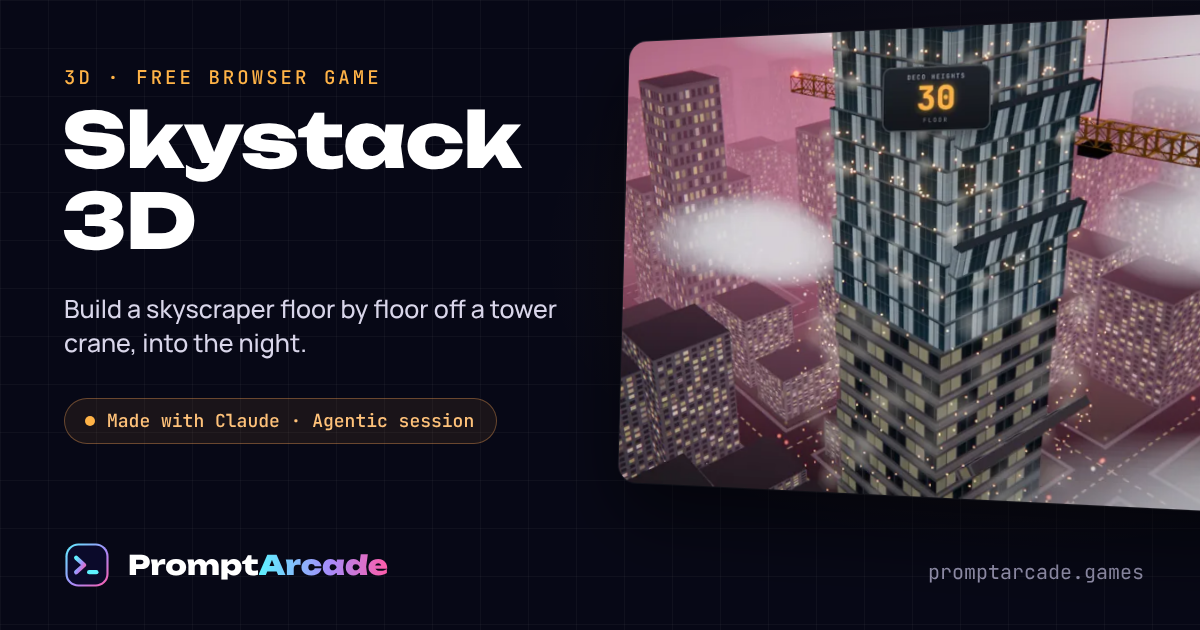
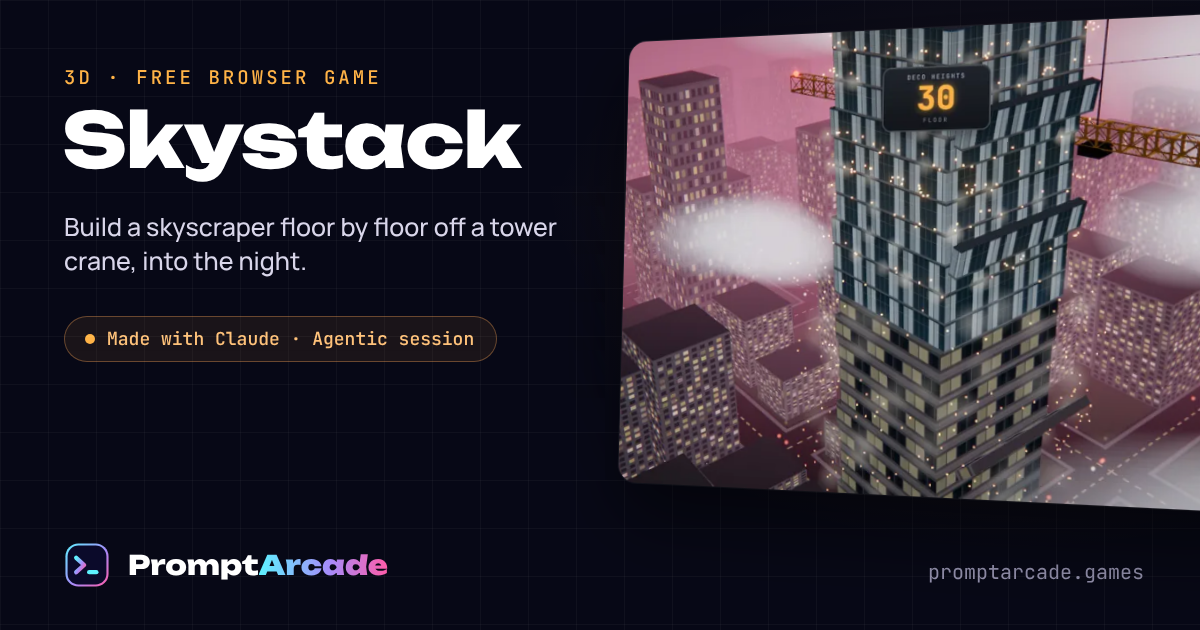
Skystack: clear opening view of the podium, drop "3D" from the name (#20)
- Early floors are framed from higher up (elevation eases from 0.62 to the usual 0.42 over the first
  ten floors) and aim slightly above the podium so it and the hanging floor sit clear of the score panel
- City buildings between the camera and the tower are capped below the sight line to the podium,
  so no neighbour's roof can fill the screen at the start
- Clouds sitting across the line of sight to the top of the tower thin out
- Title is now "Skystack" on the home page, play page, page title, quest/badge text and share card;
  slug /games/skystack/ unchanged

Changed region(s): [[0.0308, 0.3016, 0.4625, 0.4524], [0.0308, 0.4825, 0.4625, 0.573], [0.0617, 0.6635, 0.4008, 0.6937]]

diff --git a/src/play/skystack.html b/src/play/skystack.html
@@ -1,7 +1,7 @@
 <!DOCTYPE html>
 <html lang="en"><head><meta charset="utf-8"/>
 <meta name="viewport" content="width=device-width, initial-scale=1, maximum-scale=1, user-scalable=no"/>
-<title>Skystack 3D — PromptArcade</title>
+<title>Skystack — PromptArcade</title>
 <style>
 html,body{margin:0;height:100%;overflow:hidden;background:#5aa9e6;font-family:Manrope,system-ui,sans-serif;touch-action:none;-webkit-user-select:none;user-select:none}
 #game{position:fixed;inset:0}
@@ -14,12 +14,12 @@ html,body{margin:0;height:100%;overflow:hidden;background:#5aa9e6;font-family:Ma
 #sk-combo{position:fixed;top:168px;left:0;right:0;text-align:center;z-index:30;pointer-events:none;font:800 15px 'JetBrains Mono',monospace;letter-spacing:.16em;color:#fff;text-shadow:0 2px 10px rgba(0,0,0,.45);opacity:0;transition:opacity .3s}
 #sk-hint{position:fixed;bottom:40px;left:0;right:0;text-align:center;z-index:30;pointer-events:none;font:700 14px Manrope,sans-serif;color:#fff;text-shadow:0 1px 6px rgba(0,0,0,.5);transition:opacity .5s}
 </style></head><body>
-<div id="game" aria-label="Skystack 3D: a skyscraper rising over a city"></div>
+<div id="game" aria-label="Skystack: a skyscraper rising over a city"></div>
 <div id="sk-panel"><small id="sk-dist">Brick row</small><b id="sk-score">0</b><span>FLOOR</span></div>
 <div id="sk-combo"></div><div id="sk-hint">Tap, click or press Space to lower the floor</div>
 <script>
 window.paConfig = {
-  slug: "skystack", title: "Skystack 3D", native: true, music: "lofi", unit: "floors",
+  slug: "skystack", title: "Skystack", native: true, music: "lofi", unit: "floors",
   controls: [["Space / click / tap", "Lower the floor off the crane"], ["Flush drops", "Three in a row brace the tower: no sway for four floors"], ["Hot streak", "From the third flush in a row, each flush floor grows back a little"], ["Sky lobby", "Every tenth floor the next one comes wider"], ["Wind", "From floor 5 the tower sways: drop where the top is, not where it was"]]
 };
 </script>
@@ -300,6 +300,21 @@ const wallTex = canvasTex(128, 256, (g, w, h) => {
 const cityWall = new THREE.MeshStandardMaterial({ color: 0xffffff, map: wallTex, emissive: 0xffffff, emissiveMap: winTex, emissiveIntensity: 0, roughness: .8, metalness: .1 });
 const cityRoof = new THREE.MeshStandardMaterial({ color: 0x5b6168, roughness: .9 });
 const blocks = [];
+// keep the view onto the podium clear: anything between the camera and the tower stays below the
+// sight line from the camera to the upper podium, so no neighbour's roof hides where the first floors land
+const CAM_AZ = Math.PI / 4, EL_LOW = .42, EL_START = .62;
+function clearH(x, z, w, d) {
+  const hd = Math.hypot(w, d) / 2;
+  let cap = Infinity;
+  for (const az of [CAM_AZ - .2, CAM_AZ, CAM_AZ + .2]) {
+    const ux = Math.sin(az), uz = Math.cos(az);
+    const t = x * ux + z * uz, lat = Math.abs(x * uz - z * ux);
+    if (t <= 0 || lat > START / 2 + hd + 2) continue;
+    // the sight line rises from the podium (aimed a few floors below its top) at the shallowest camera angle
+    cap = Math.min(cap, (-3 + Math.max(0, t - hd) * Math.tan(EL_LOW) - .6) - GY);
+  }
+  return Math.max(1.2, cap);
+}
 for (let gx = -6; gx <= 6; gx++) for (let gz = -6; gz <= 6; gz++) {
   if (Math.abs(gx) <= 0 && Math.abs(gz) <= 0) continue;
   const cx = gx * 20, cz = gz * 20, r = Math.hypot(cx, cz);
@@ -307,8 +322,10 @@ for (let gx = -6; gx <= 6; gx++) for (let gz = -6; gz <= 6; gz++) {
   // two to four buildings to a block, taller further out so the tower always reads as the star
   const n = 2 + ((Math.random() * 3) | 0), slots = [[-4, -4], [4, -4], [-4, 4], [4, 4]].sort(() => Math.random() - .5);
   for (let k = 0; k < n; k++) {
-    const w = 5 + Math.random() * 2.5, d = 5 + Math.random() * 2.5, h = 2 + Math.random() * (r < 30 ? 5 : r < 60 ? 10 : 18) + (Math.random() < .08 ? 14 : 0);
-    blocks.push([cx + slots[k][0], cz + slots[k][1], w, d, h]);
+    const w = 5 + Math.random() * 2.5, d = 5 + Math.random() * 2.5, bx = cx + slots[k][0], bz = cz + slots[k][1];
+    let h = 2 + Math.random() * (r < 30 ? 5 : r < 60 ? 10 : 18) + (Math.random() < .08 ? 14 : 0);
+    h = Math.min(h, clearH(bx, bz, w, d));
+    blocks.push([bx, bz, w, d, h]);
   }
 }
 const city = new THREE.InstancedMesh(geo, [cityWall, cityWall, cityRoof, cityRoof, cityWall, cityWall], blocks.length);
@@ -783,7 +800,12 @@ function frame(now) {
   for (const c of clouds) {
     c.position.x += c.userData.v * dt; if (c.position.x > 40) c.position.x = -40;
     const dc = c.position.distanceTo(cam.position);
-    c.material.opacity = .55 * Math.min(1, Math.max(0, (dc - 10) / 14));
+    // a cloud sitting right across the line of sight to the top of the tower thins out, so it never hides where the floor lands
+    const ax = -cam.position.x, ay = camY + .5 - cam.position.y, az2 = -cam.position.z, aa = ax * ax + ay * ay + az2 * az2;
+    const px = c.position.x - cam.position.x, py = c.position.y - cam.position.y, pz = c.position.z - cam.position.z;
+    const u = Math.min(1, Math.max(0, (px * ax + py * ay + pz * az2) / aa));
+    const off = Math.hypot(px - ax * u, py - ay * u, pz - az2 * u), clr = Math.min(1, Math.max(.08, (off - 3) / (c.scale.x * .45)));
+    c.material.opacity = .55 * Math.min(1, Math.max(0, (dc - 10) / 14)) * (u < 1 ? clr : 1);
     c.material.color.setRGB(ck, ck * 1.02, ck * 1.1 + night * .1);
   }
   // camera rises with the tower and drifts gently round it; pulls back at the end to show the whole thing
@@ -791,11 +813,17 @@ function frame(now) {
   camY += (targetY - camY) * Math.min(1, dt * 3);
   const D = over ? Math.max(camD, stack.length * H * 1.9 + 14) : camD;
   cam.userData.d = (cam.userData.d || D) + (D - (cam.userData.d || D)) * Math.min(1, dt * 2);
-  const az = Math.PI / 4 + Math.sin(clock * .07) * .12, el = .42, dd = cam.userData.d;
+  // the first floors are seen from higher up, looking down onto the podium so the landing spot is
+  // easy to read; the view eases down to the usual angle as the tower climbs past ten floors
+  const elT = over ? EL_LOW : EL_LOW + (EL_START - EL_LOW) * Math.max(0, 1 - score / 10);
+  cam.userData.el = cam.userData.el == null ? elT : cam.userData.el + (elT - cam.userData.el) * Math.min(1, dt * 2);
+  const az = CAM_AZ + Math.sin(clock * .07) * .12, el = cam.userData.el, dd = cam.userData.d;
   cam.position.set(Math.sin(az) * dd * Math.cos(el), camY + dd * Math.sin(el), Math.cos(az) * dd * Math.cos(el));
   kick *= Math.exp(-dt * 9);
   cam.position.y -= kick * Math.sin(clock * 40) * .5;
-  cam.lookAt(0, camY, 0);
+  // early on, aim a touch above the podium so it and the hanging floor sit clear of the score panel
+  const lift = over ? 0 : 1.2 * Math.max(0, 1 - score / 10);
+  cam.lookAt(0, camY + lift, 0);
   sky.position.copy(cam.position);
   sun.position.set(10, 30 + camY, 6); sun.target.position.set(0, camY, 0);
   post.render(scene, cam, clock);

diff --git a/src/play/pa-kit.js b/src/play/pa-kit.js
@@ -1149,7 +1149,7 @@
       "grid-100k": ["Storm Chaser", "Score 100,000 in Gridstorm", "⚡"],
       "delve-5": ["Dragonslayer", "Reach depth 6 in Deepdelve", "🐉"],
       "delve-10": ["Into the Abyss", "Reach depth 10 in Deepdelve", "🕳"],
-      "stack-30": ["Skyline", "Stack 30 floors in Skystack 3D", "🏙"]
+      "stack-30": ["Skyline", "Stack 30 floors in Skystack", "🏙"]
     };
     var data = null, queue = [];
     (function loadData() {
